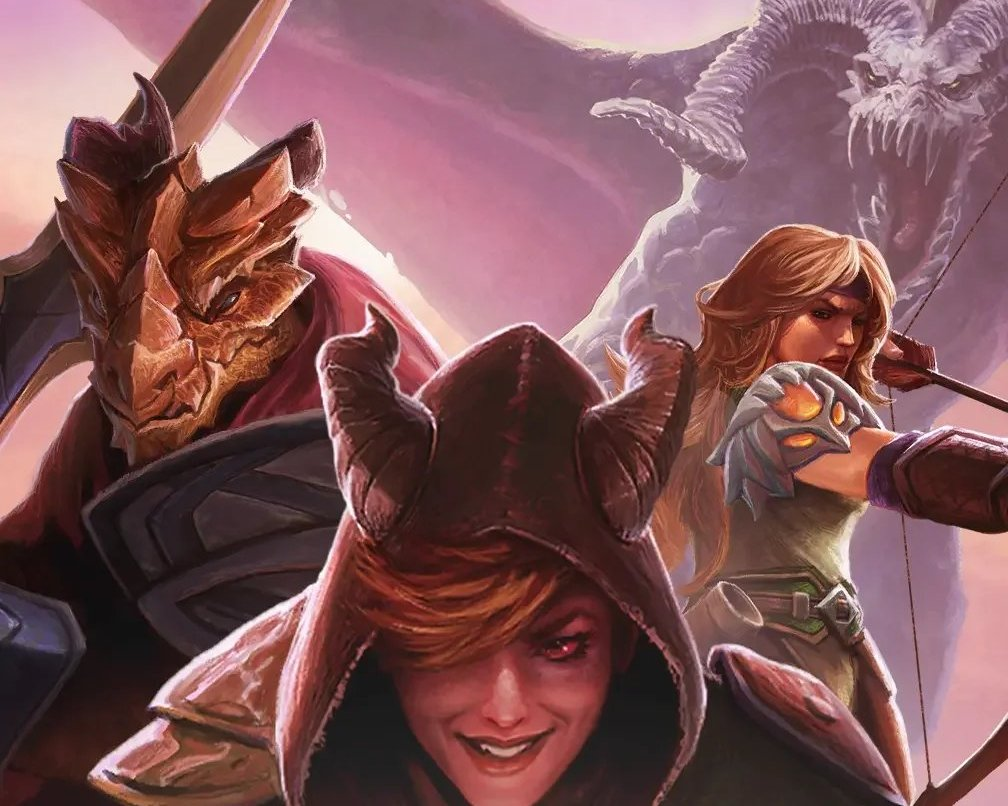
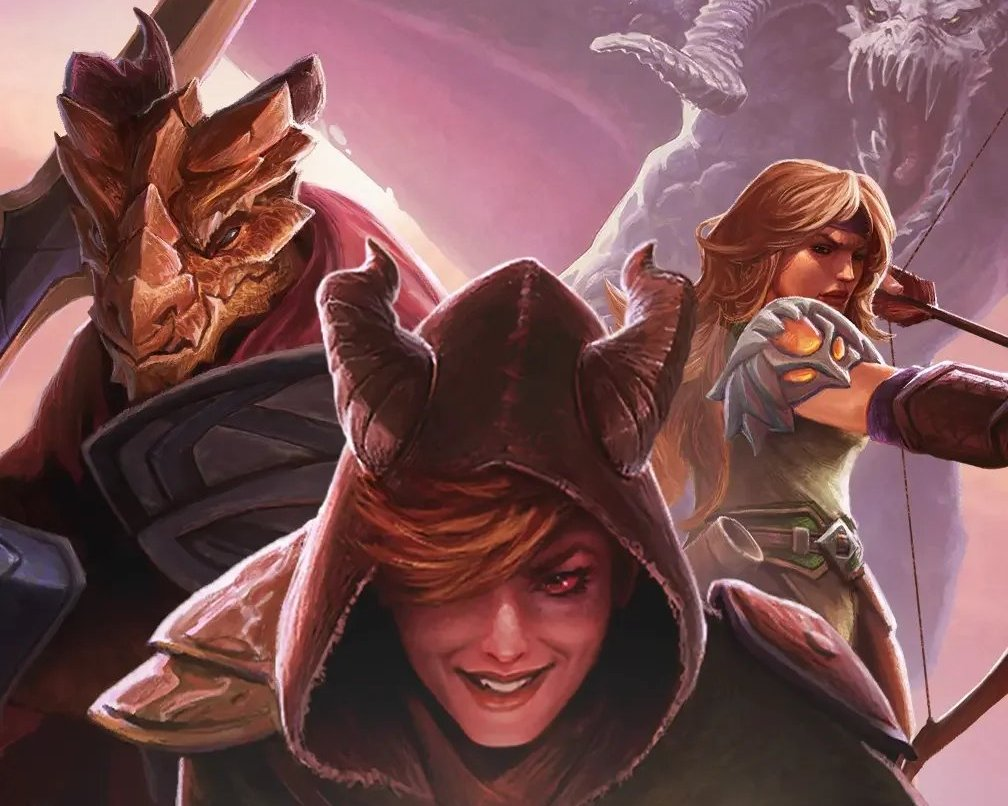
Removed titles
Improved cropping

diff --git a/css/style.css b/css/style.css
@@ -223,20 +223,14 @@ img.missing-asset { color: transparent; }
 .sub-head { display: flex; flex-wrap: wrap; gap: 4px 16px; align-items: baseline; justify-content: space-between; }
 .sub-head h3 { font-weight: 700; font-size: 24px; }
 
-/* Key art: a screenshot with the game's name set over it; a hover video fades in on top. */
+/* Key art (the game's name is in the card body below it); a hover video fades in on top. */
 .art { position: relative; display: flex; align-items: flex-end; overflow: hidden; background: #1F1A14; text-decoration: none; }
 .art > img, .art > video { position: absolute; inset: 0; width: 100%; height: 100%; object-fit: cover; }
 .art > video { opacity: 0; transition: opacity .35s; }
 .art:hover > video.ready, .art:focus-visible > video.ready { opacity: 1; }
-.art::after { content: ""; position: absolute; inset: 0; background: linear-gradient(180deg, rgba(14,16,19,0) 35%, rgba(14,16,19,.85)); pointer-events: none; }
-.art-title {
-  position: relative; z-index: 1; font-family: var(--font-display); font-weight: 900; font-stretch: 125%;
-  line-height: .95; color: #F3E6D0; letter-spacing: -1px; text-shadow: 0 2px 18px rgba(0,0,0,.5);
-}
 
 .featured { display: flex; flex-wrap: wrap; border-radius: 20px; overflow: hidden; }
 .featured .art { flex: 1 1 520px; min-height: 420px; padding: 32px; }
-.featured .art-title { font-size: clamp(44px, 5.4vw, 64px); }
 .featured-body { flex: 1 1 420px; min-width: 0; padding: 40px; display: flex; flex-direction: column; gap: 20px; }
 .featured-body h3 { font-weight: 800; font-size: clamp(28px, 3vw, 34px); line-height: 1.1; }
 .featured-body > p { color: var(--text-2); }
@@ -246,7 +240,6 @@ img.missing-asset { color: transparent; }
 .card-grid { display: grid; grid-template-columns: repeat(auto-fit, minmax(300px, 1fr)); gap: 24px; }
 .project-card { overflow: hidden; display: flex; flex-direction: column; }
 .project-card .art { height: 200px; padding: 20px; }
-.project-card .art-title { font-size: 34px; letter-spacing: -.5px; color: #F1EEE8; }
 .project-card-body { padding: 24px; display: flex; flex-direction: column; gap: 14px; flex-grow: 1; }
 .project-card-body h3 { font-weight: 700; font-size: 24px; line-height: 1.2; }
 .project-card-body > p { font-size: 15px; color: var(--text-3); }
@@ -523,4 +516,10 @@ body.modal-open { overflow: hidden; }
   .nine-games h3 { text-align: center; }
   /* 112px covers, shrinking on phones to whatever fits beside the gutters, panel padding and gaps */
   .cover-grid { grid-template-columns: repeat(3, clamp(60px, calc((100vw - 112px) / 3), 112px)); gap: 10px; }
+}
+
+/* When the featured card stacks (1004px and below), a short, wide art strip would cut the faces off the
+   Battlemarked key art, so keep it 16:10 (phones keep the 260px minimum). */
+@media (max-width: 1004px) {
+  .featured .art { min-height: 260px; aspect-ratio: 16 / 10; }
 }

diff --git a/index.html b/index.html
@@ -66,7 +66,6 @@
         <a class="art" href="battlemarked.html" data-hover-video aria-label="Demeo x Dungeons &amp; Dragons: Battlemarked">
           <img src="assets/images/posters/cards/battlemarked.jpg" alt="">
           <video data-src="assets/video/battlemarked/preview.mp4" preload="none"></video>
-          <span class="art-title">BATTLE<br>MARKED</span>
         </a>
         <div class="featured-body">
           <div class="chips"><span class="chip solid">Featured</span><span class="chip">Unity</span><span class="chip">VR · PC · PS5</span></div>
@@ -87,14 +86,13 @@
           <a class="art" href="demeo.html" data-hover-video aria-label="Demeo">
             <img src="assets/images/posters/cards/demeo.jpg" alt="">
             <video data-src="assets/video/demeo/preview.mp4" preload="none"></video>
-            <span class="art-title">DEMEO</span>
           </a>
           <div class="project-card-body">
             <div class="chips"><span class="chip">Unity</span><span class="chip">VR · PC · PS5 · PS VR2</span></div>
             <h3><a href="demeo.html">Demeo</a></h3>
             <p>Cooperative tabletop dungeon crawler for up to four players.</p>
             <ul class="arrow-list">
-              <li><span>PS VR2 launch port: Activities, PlayStation Plus, audio-driven Sense rumble</span></li>
+              <li><span>PS VR2 launch title: Activities, PlayStation Plus, audio-driven Sense rumble</span></li>
               <li><span>Took over hand tracking, including the tutorial</span></li>
               <li><span>Built turn-by-turn auto saves, later reused in Battlemarked</span></li>
             </ul>
@@ -106,7 +104,6 @@
           <a class="art" href="demeobattles.html" data-hover-video aria-label="Demeo Battles">
             <img src="assets/images/posters/cards/demeobattles.jpg" alt="">
             <video data-src="assets/video/demeobattles/preview.mp4" preload="none"></video>
-            <span class="art-title">DEMEO<br>BATTLES</span>
           </a>
           <div class="project-card-body">
             <div class="chips"><span class="chip">Unity</span><span class="chip">VR · MR</span></div>
@@ -124,7 +121,6 @@
           <a class="art" href="grimkeep.html" data-hover-video aria-label="GrimKeep">
             <img src="assets/images/posters/cards/grimkeep.jpg" alt="">
             <video data-src="assets/video/grimkeep/preview.mp4" preload="none"></video>
-            <span class="art-title">GRIMKEEP</span>
           </a>
           <div class="project-card-body">
             <div class="chips"><span class="chip">Unity</span><span class="chip">PS5</span></div>
